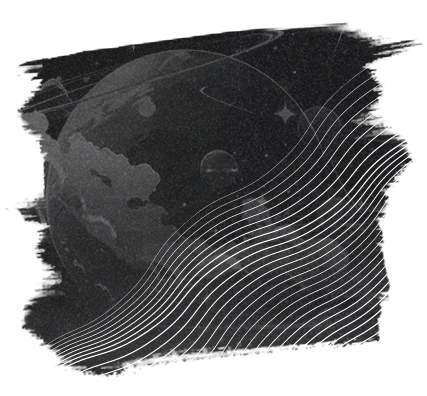
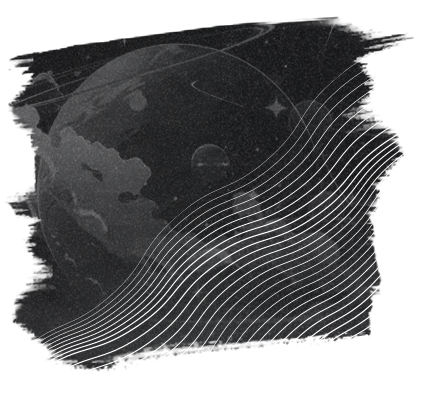
c

diff --git a/personal/user-lookup/style.css b/personal/user-lookup/style.css
@@ -697,7 +697,7 @@ a.ul--petname {
 
 .ul__Cyde a {
 }
-.Cyde__after::after {
+.ul__Cyde .ul--petname::after {
     content: 'MAIN / BD PET';
     display: block!important;
     font-size: 10px;
